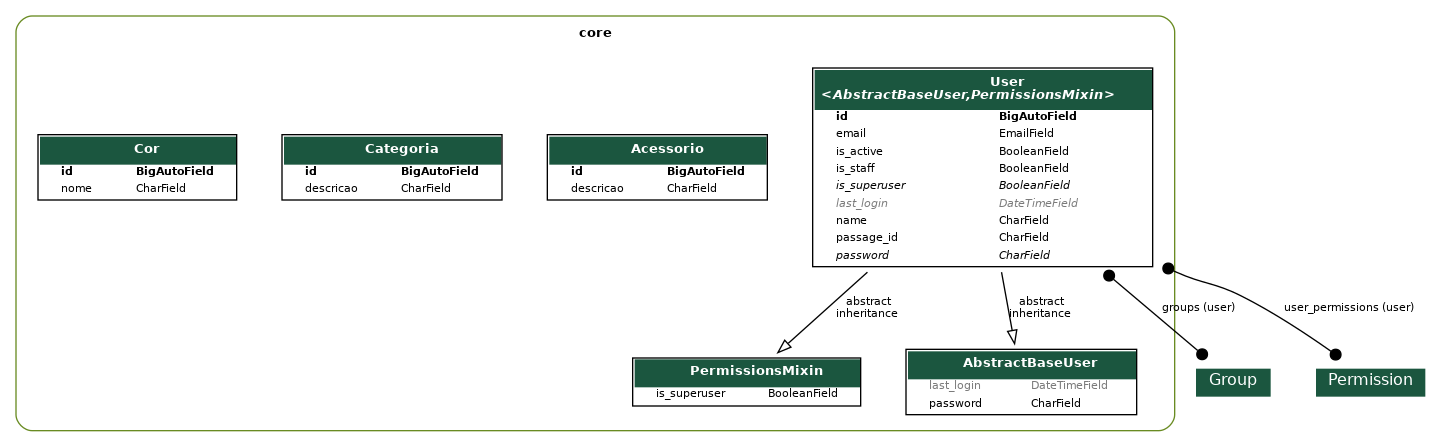
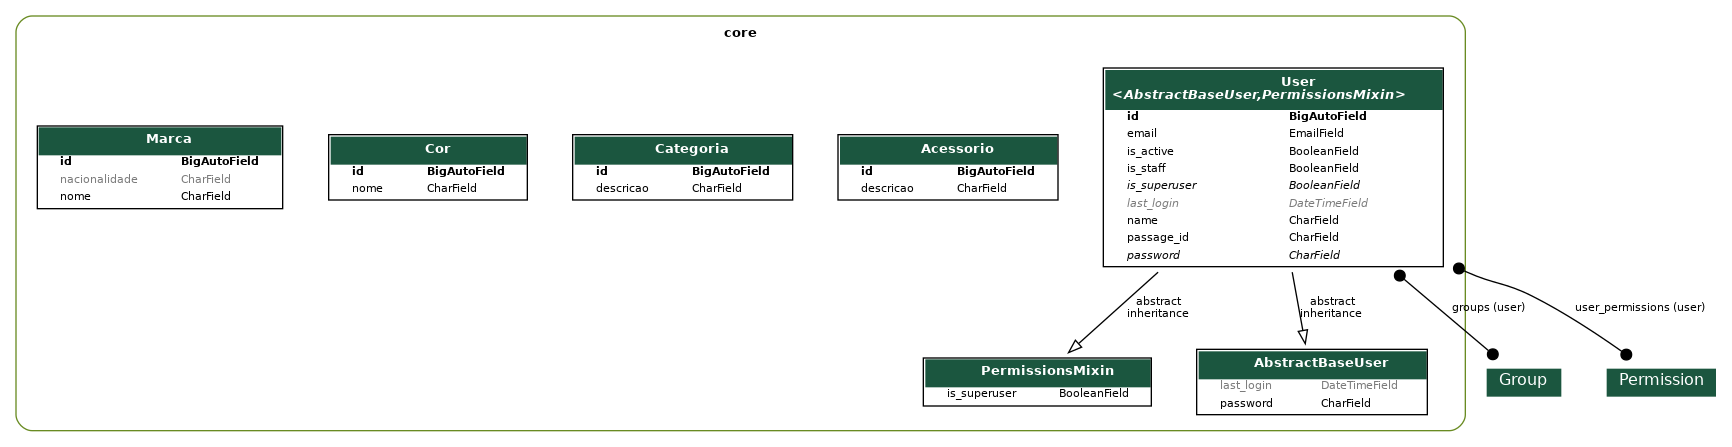
criacao api marca

diff --git a/app/urls.py b/app/urls.py
@@ -12,6 +12,7 @@ from rest_framework_simplejwt.views import TokenObtainPairView, TokenRefreshView
 from core.views import AcessorioViewSet
 from core.views import CategoriaViewSet
 from core.views import CorViewSet
+from core.views import MarcaViewSet
 from core.views import UserViewSet
 
 
@@ -21,6 +22,8 @@ router.register(r"acessorios", AcessorioViewSet, basename="acessorios")
 router.register(r"categorias", CategoriaViewSet, basename="categorias")
 router.register(r"cores", CorViewSet, basename="cores")
 router.register(r"usuarios", UserViewSet, basename="usuarios")
+router.register(r"marca", MarcaViewSet, basename="marcas")
+
 
 
 

diff --git a/core/migrations/0005_marca.py b/core/migrations/0005_marca.py
@@ -1,0 +1,21 @@
+# Generated by Django 5.0.6 on 2024-07-12 18:42
+
+from django.db import migrations, models
+
+
+class Migration(migrations.Migration):
+
+    dependencies = [
+        ("core", "0004_cor"),
+    ]
+
+    operations = [
+        migrations.CreateModel(
+            name="Marca",
+            fields=[
+                ("id", models.BigAutoField(auto_created=True, primary_key=True, serialize=False, verbose_name="ID")),
+                ("nome", models.CharField(max_length=50)),
+                ("nacionalidade", models.CharField(blank=True, max_length=50, null=True)),
+            ],
+        ),
+    ]

diff --git a/core/models/marca.py b/core/models/marca.py
@@ -1,0 +1,7 @@
+from django.db import models
+
+class Marca(models.Model):
+    nome = models.CharField(max_length=50)
+    nacionalidade = models.CharField(max_length=50, blank=True, null=True)
+    def __str__(self):
+       return f"{self.nome.upper()} ({self.id})"

diff --git a/core/views/marca.py b/core/views/marca.py
@@ -1,0 +1,8 @@
+from rest_framework.viewsets import ModelViewSet
+
+from core.models import Marca
+from core.serializers import MarcaSerializer
+
+class MarcaViewSet(ModelViewSet):
+    queryset = Marca.objects.all()
+    serializer_class = MarcaSerializer

diff --git a/core/serializers/marca.py b/core/serializers/marca.py
@@ -1,0 +1,8 @@
+from rest_framework.serializers import ModelSerializer
+
+from core.models import Marca
+
+class MarcaSerializer(ModelSerializer):
+    class Meta:
+        model = Marca
+        fields = "__all__"

diff --git a/core/admin.py b/core/admin.py
@@ -52,3 +52,4 @@ admin.site.register(models.Acessorio)
 admin.site.register(models.Categoria)
 admin.site.register(models.User, UserAdmin)
 admin.site.register(models.Cor)
+admin.site.register(models.Marca)

diff --git a/core/serializers/__init__.py b/core/serializers/__init__.py
@@ -2,3 +2,4 @@ from .user import UserSerializer
 from .acessorio import AcessorioSerializer
 from .categoria import CategoriaSerializer
 from .cor import CorSerializer
+from .marca import MarcaSerializer

diff --git a/core/views/__init__.py b/core/views/__init__.py
@@ -2,3 +2,4 @@ from .user import UserViewSet
 from .acessorio import AcessorioViewSet
 from .categoria import CategoriaViewSet
 from .cor import CorViewSet
+from .marca import MarcaViewSet

diff --git a/core/models/__init__.py b/core/models/__init__.py
@@ -2,3 +2,4 @@ from .user import User
 from .acessorio import Acessorio
 from .categoria import Categoria
 from .cor import Cor
+from .marca import Marca
